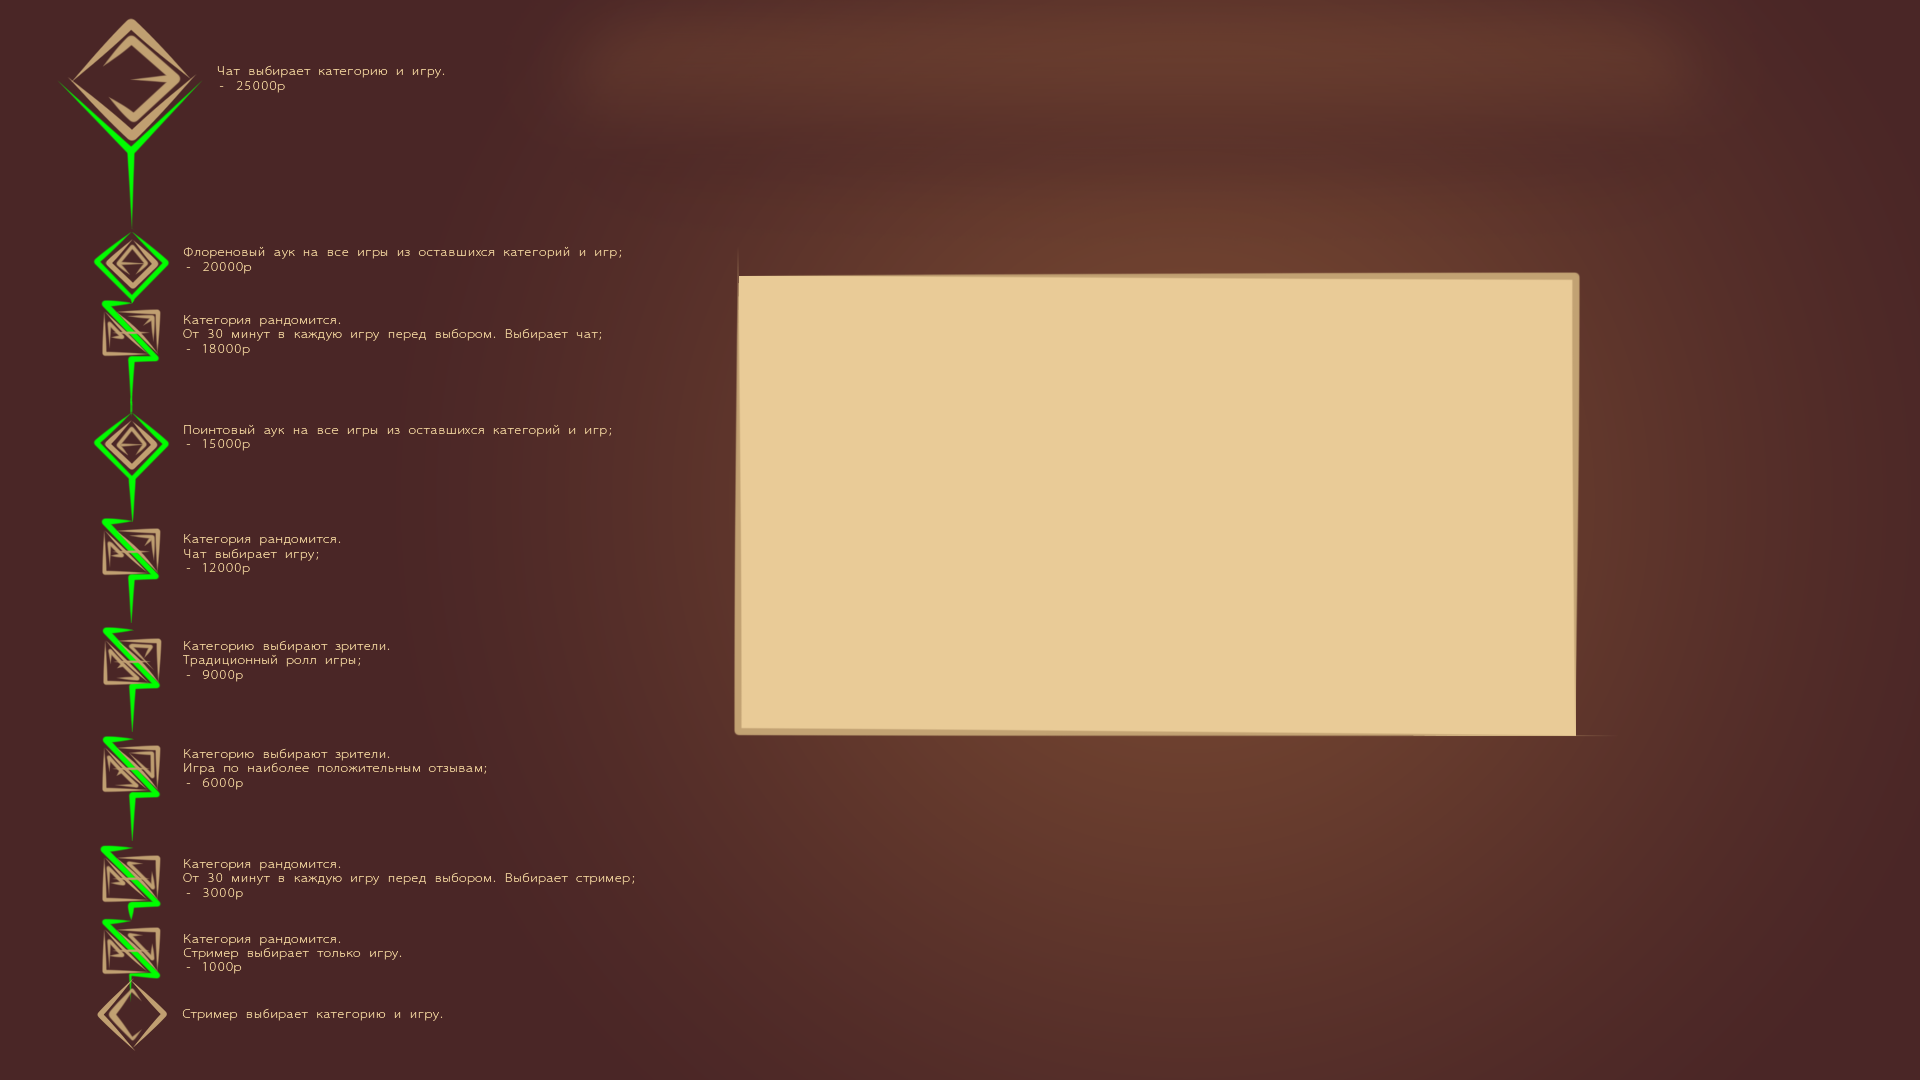
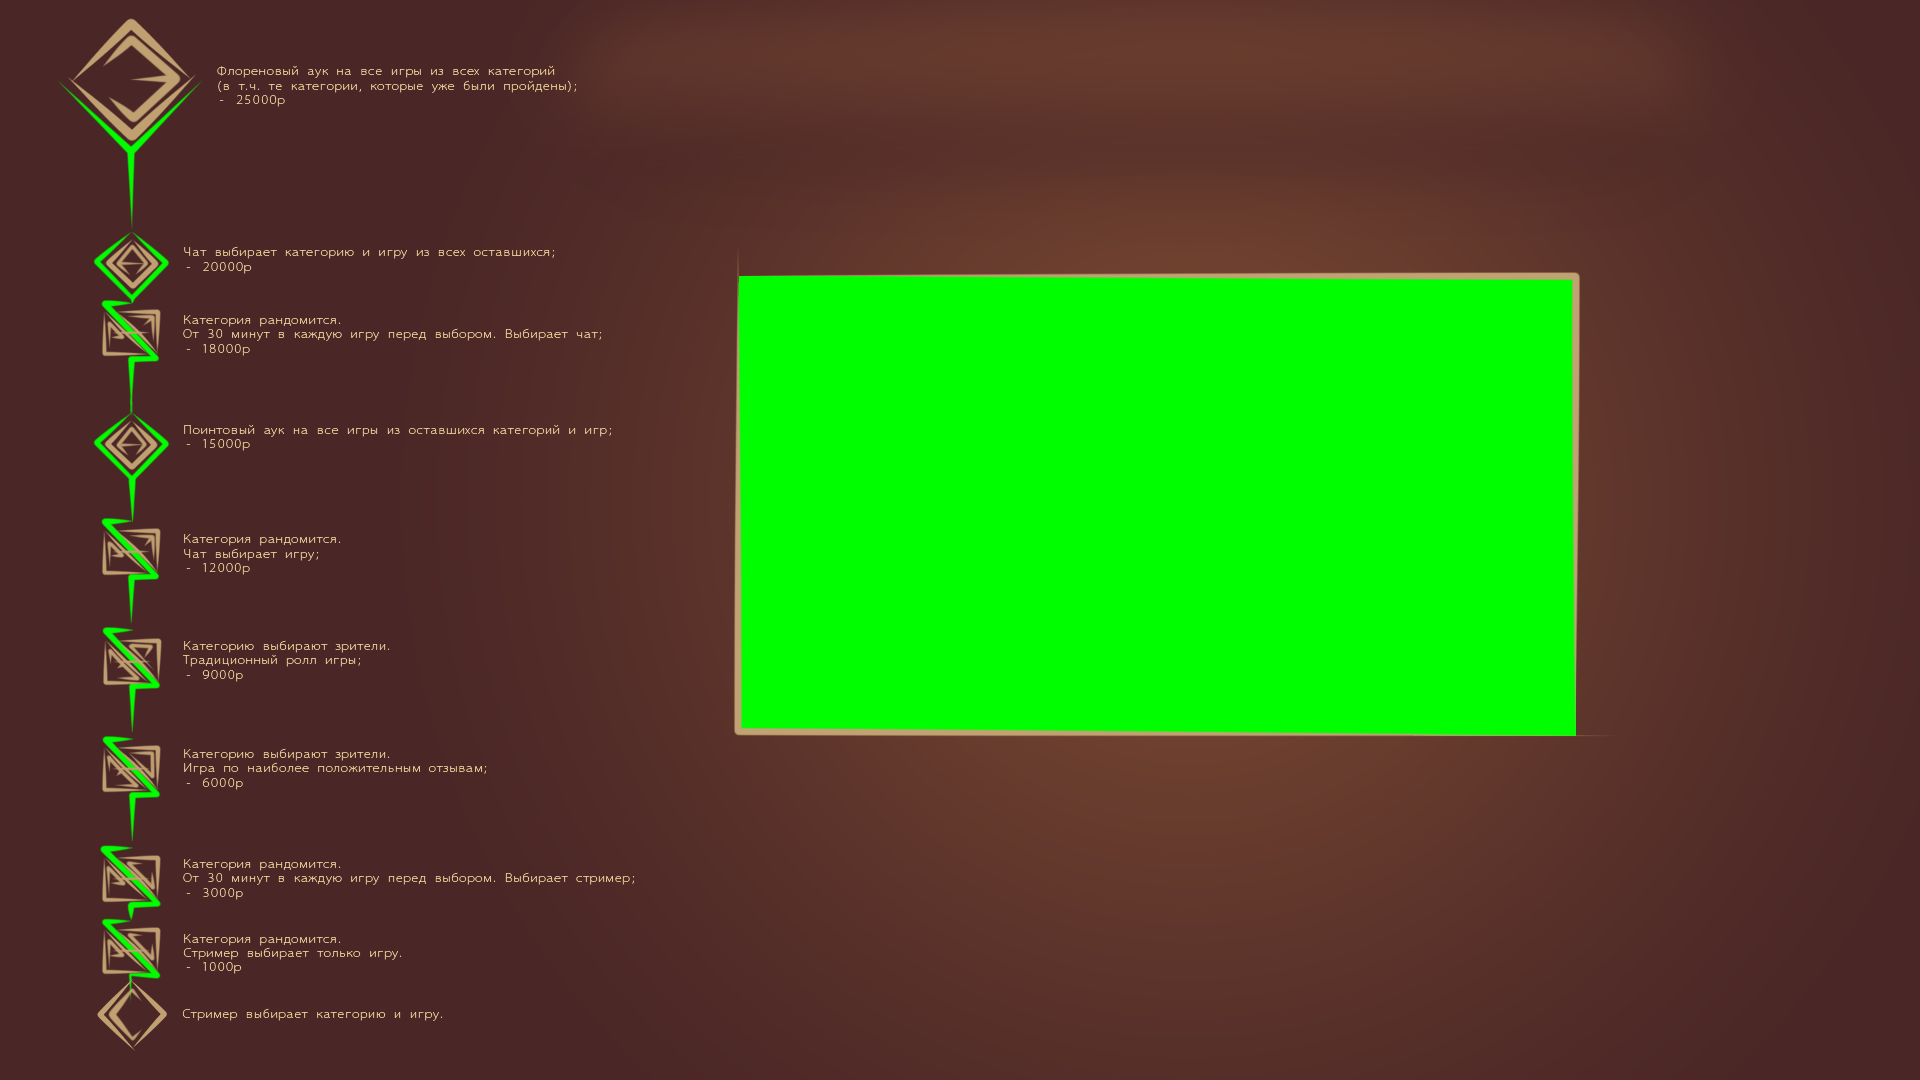
Games changed, new background

Changed region(s): [[0.375, 0.2444, 0.8438, 0.7028], [0.125, 0.0611, 0.2812, 0.0917], [0.0938, 0.2139, 0.1875, 0.2444]]

diff --git a/scripts/indie.js b/scripts/indie.js
@@ -1,10 +1,10 @@
 ( function( $ ) {
 
     var genresArray =
-     '[{"name": "долгие","pic": "dolgie", "games": ["Subnautica", "Desperados III", "Disco Elysium", "Pathologic 2", "Hollow Knight"]},'+
-     '{"name": "глубокие","pic": "glubokie",  "games": ["The Vanishing of Ethan Carter", "What Remains of Edith Finch", "The Red Strings Club", "The Beginner’s Guide", "OneShot"]},'+
-     '{"name": "хоррор","pic": "horror", "games": ["Summer of 58", "Yuppie Psycho", "Among the Sleep", "Detention", "Happy Game"]},'+
-     '{"name": "экшн игры","pic": "action", "games": ["Death’s door", "Elderborn", "Alien Shooter", "Ape Out", "Chernobylite"]},'+
+     '[{"name": "долгие","pic": "dolgie", "games": ["Subnautica", "Desperados III", "Chernobylite", "Pathologic 2", "Hollow Knight"]},'+
+     '{"name": "глубокие","pic": "glubokie",  "games": ["The Vanishing of Ethan Carter", "What Remains of Edith Finch", "The Red Strings Club", "The Beginner’s Guide", "Finding Paradise"]},'+
+     '{"name": "хоррор","pic": "horror", "games": ["Summer of 58", "Yuppie Psycho", "Among the Sleep", "Detention", "Death Park 2"]},'+
+     '{"name": "экшн игры","pic": "action", "games": ["Death’s door", "Elderborn", "Alien Shooter", "Ape Out", "Mortal Shell"]},'+
      '{"name": "культовые","pic": "kultovie", "games": ["Papers, Please", "Undertale", "The Stanley Parable", "Brothers - A Tale of Two Sons", "Braid"]},'+
      '{"name": "метроидвания","pic": "metroidv", "games": ["Ori and the Will of the Wisps", "Ender Lilies: Quietus of the Knights", "Fearmonium", "F.I.S.T.: Forged In Shadow Torch", "Valfaris"]},'+
      '{"name": "платформер","pic": "platform", "games": ["Child of Light", "Little Nightmares 2", "Pumpkin Jack", "Psychonauts", "A Story About My Uncle"]},'+
@@ -14,10 +14,10 @@
      '{"name": "интерактивные истории","pic": "interaktiv", "games": ["Her Story", "Death and Taxes", "Road 96", "Not For Broadcast", "Late Shift"]},'+
      '{"name": "Хайден Гемы","pic": "hiddengem", "games": ["In Sound Mind", "Inertial Drift", "A Juggler’s Tale", "Bright Lights of Svetlov", "Sludge Life"]},'+
      '{"name": "юмор","pic": "jumor", "games": ["Protocol", "Untitled Goose Game", "Pony Island", "Breathedge", "There Is No Game: Wrong Dimension"]},'+
-     '{"name": "АА инди","pic": "aaindi", "games": ["Life is Strange", "KENA: Bridge of Spirits", "Outlast", "Hellblade: Senua’s Sacrifice", "Terminator: Resistance"]},'+
+     '{"name": "АА инди","pic": "aaindi", "games": ["Life is Strange", "KENA: Bridge of Spirits", "Hitman 3", "Hellblade: Senua’s Sacrifice", "Terminator: Resistance"]},'+
      '{"name": "приключения","pic": "prikl", "games": ["Tails of Iron", "Grimm’s Hollow", "Sally Face", "The Banner Saga", "LISA: The Painfull"]},'+
      '{"name": "саундтрек","pic": "soundtrack", "games": ["Furi", "Ruiner", "Everhood", "Bastion", "198X"]},'+
-     '{"name": "квесты","pic": "quest", "games": ["Rusty Lake: Roots", "Grim Fandango", "Superliminal", "Sherlock Holmes: Crimes and Punishments", "Forgotten City"]},'+
+     '{"name": "квесты","pic": "quest", "games": ["Rusty Lake: Roots", "Creepy Tale 2", "Superliminal", "Sherlock Holmes: Crimes and Punishments", "Forgotten City"]},'+
      '{"name": "random","pic": "random"}]';
 
      var genresActiveArray = [];

diff --git a/styles/style.css b/styles/style.css
@@ -1,6 +1,6 @@
 body {
-  background-color: #00FF00;
-  /* background-color: #502a28; */
+  /* background-color: #00FF00; */
+  background-color: #502a28;
 }
 
 .genre_icons > div{
